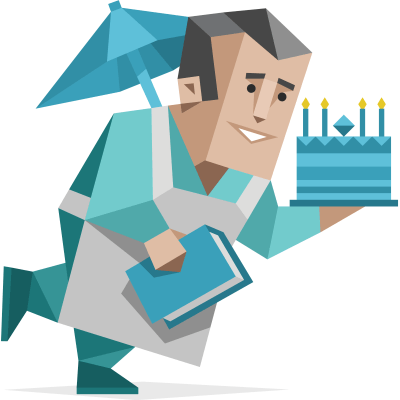
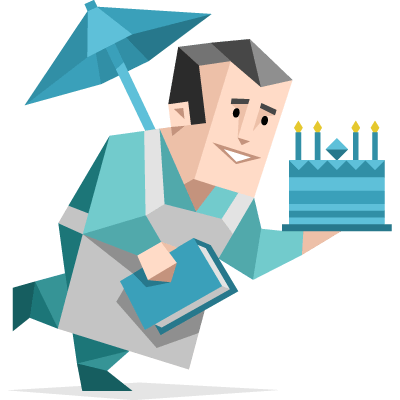
updates

diff --git a/lib/mbtichar.dart b/lib/mbtichar.dart
@@ -1,6 +1,7 @@
 // ignore_for_file: prefer_const_constructors
 
 import 'package:flutter/material.dart';
+import 'package:mbti/models/cardlist.dart';
 import 'dart:ui' as ui;
 
 import 'models/infopage.dart';
@@ -21,12 +22,36 @@ class mbtichar extends StatelessWidget {
 
   @override
   Widget build(BuildContext context) {
+    late Color typecolor;
+    var mbtitype = {
+      "Analysts": ["Architect", "Logician", "Commander", "Debater"],
+      "Diplomats": ["Advocate", "Mediator", "Protagonist", "Campaigner"],
+      "Sentinels": ["Logistician", "Defender", "Executive", "Consul"],
+      "Explorers": ["Virtuoso", "Adventurer", "Entrepreneur", "Entertainer"]
+    };
+
+    mbtitype.forEach((key, value) {
+      for (var item in value) {
+        if (mbtititle == item) {
+          if (key == "Analysts") {
+            typecolor = Color.fromARGB(255, 121, 84, 138);
+          } else if (key == "Diplomats") {
+            typecolor = Color.fromARGB(255, 32, 117, 50);
+          } else if (key == "Sentinels") {
+            typecolor = Color.fromARGB(255, 32, 123, 146);
+          } else {
+            typecolor = Color.fromARGB(255, 143, 134, 10);
+          }
+        }
+      }
+    });
+
     return Scaffold(
       backgroundColor: Colors.white,
       body: Stack(children: [
         Column(children: [
           Padding(
-            padding: EdgeInsets.only(left: 36, top: 50),
+            padding: EdgeInsets.only(left: 24, top: 140),
             child: Container(
               width: 280,
               height: 280,
@@ -34,83 +59,33 @@ class mbtichar extends StatelessWidget {
                   image: DecorationImage(image: AssetImage(imagetitlepath))),
             ),
           ),
-          // Padding(
-          //   padding: EdgeInsets.only(top: 36, left: 4),
-          //   child: Column(children: [
-          //     Text(
-          //       mbtititle,
-          //       style: TextStyle(
-          //           color: color(),
-          //           fontSize: 35,
-          //           letterSpacing: -2,
-          //           fontFamily: 'PTMono'),
-          //     ),
-          //     SizedBox(
-          //       height: 8,
-          //     ),
-          //     Padding(
-          //       padding: EdgeInsets.only(left: 20),
-          //       child: Text(
-          //         description,
-          //         style: TextStyle(
-          //             color: Colors.grey[700],
-          //             fontSize: 20,
-          //             fontFamily: 'PTMono'),
-          //       ),
-          //     )
-          //   ]),
-          // ),
-          // SizedBox(
-          //   height: 40,
-          // ),
-          // GestureDetector(
-          //   onTap: () {
-          //     Navigator.push(context, MaterialPageRoute(builder: (context) {
-          //       return infopage(imageinfo, mbtititle, mbtiinfo);
-          //     }));
-          //   },
-          //   child: Container(
-          //     width: 70,
-          //     height: 66,
-          //     decoration: BoxDecoration(
-          //         shape: BoxShape.circle,
-          //         color: Colors.white,
-          //         border: Border.all(color: Colors.grey.shade300)),
-          //     child: Center(
-          //       child: Icon(
-          //         Icons.arrow_downward,
-          //         color: Colors.grey.shade600,
-          //         size: 28,
-          //       ),
-          //     ),
-          //   ),
-          // ),
-
-          // Expanded(
-          //   child: Container(
-          //     child: CustomPaint(
-          //       size: Size(400, (400).toDouble()),
-          //       painter: RPSCustomPainter(),
-          //     ),
-          //   ),
-          // ),
+          Expanded(
+            child: Container(
+              child: CustomPaint(
+                size: Size(400, (400).toDouble()),
+                painter: RPSCustomPainter(typecolor),
+              ),
+            ),
+          ),
         ]),
         Padding(
-          padding: EdgeInsets.only(top: 450, left: 24),
-          child: Column(children: [
+          padding: EdgeInsets.only(top: 250, left: 40),
+          child: Column(mainAxisAlignment: MainAxisAlignment.center, children: [
             Text(
               mbtititle,
               style: TextStyle(
-                  color: color(),
+                  color: typecolor,
                   fontSize: 35,
                   letterSpacing: -2,
                   fontFamily: 'PTMono'),
             ),
+            //debater,enterprentur,vertouso
             SizedBox(
               height: 8,
             ),
+
             Padding(
-              padding: EdgeInsets.only(left: 20),
+              padding: EdgeInsets.only(left: 14),
               child: Text(
                 description,
                 style: TextStyle(
@@ -127,11 +102,11 @@ class mbtichar extends StatelessWidget {
         GestureDetector(
           onTap: () {
             Navigator.push(context, MaterialPageRoute(builder: (context) {
-              return infopage(imageinfo, mbtititle, mbtiinfo);
+              return infopage(imageinfo, mbtititle, mbtiinfo, typecolor);
             }));
           },
           child: Padding(
-            padding: EdgeInsets.only(top: 580, left: 146),
+            padding: EdgeInsets.only(top: 618, left: 148),
             child: Container(
               width: 70,
               height: 66,
@@ -154,54 +129,30 @@ class mbtichar extends StatelessWidget {
   }
 }
 
-// class CurvedPainterd extends CustomPainter {
-//   @override
-//   void paint(Canvas canvas, Size size) {
-//     var paint = Paint()
-//       ..color = Color.fromARGB(255, 234, 243, 236)
-//       ..strokeWidth = 15;
-
-//     var path = Path();
-
-//     path.moveTo(0, size.height * 0.75);
-//     path.quadraticBezierTo(size.width * 0.25, size.height * 0.1,
-//         size.width * 0.5, size.height * 0.3);
-//     path.quadraticBezierTo(size.width * 0.75, size.height * 0.4,
-//         size.width * 1.0, size.height * 0.3);
-//     path.lineTo(size.width, size.height);
-//     path.lineTo(0, size.height);
-
-//     canvas.drawPath(path, paint);
-//   }
-
-//   @override
-//   bool shouldRepaint(CustomPainter oldDelegate) {
-//     return true;
-//   }
-// }
 class RPSCustomPainter extends CustomPainter {
+  var typecolor;
+  RPSCustomPainter(this.typecolor);
   @override
   void paint(Canvas canvas, Size size) {
     Paint paint0 = Paint()
-      ..color = Color.fromARGB(255, 234, 243, 236)
+      ..color = typecolor
       ..style = PaintingStyle.fill
       ..strokeWidth = 1.0;
 
     Path path0 = Path();
-    path0.moveTo(0, size.height * 0.2120000);
+    path0.moveTo(0, size.height * 0.4278250);
     path0.cubicTo(
-        size.width * 0.3156250,
-        size.height * 0.6445000,
-        size.width * 0.3556250,
-        size.height * 0.6670000,
-        size.width * 0.4787500,
-        size.height * 0.6800000);
-    path0.quadraticBezierTo(size.width * 0.6056250, size.height * 0.6875000,
-        size.width, size.height * 0.4300000);
-    path0.lineTo(size.width, size.height);
+        size.width * 0.3470000,
+        size.height * 0.7994500,
+        size.width * 0.6753000,
+        size.height * 0.8261750,
+        size.width,
+        size.height * 0.4210000);
+    path0.quadraticBezierTo(size.width * 1.0195750, size.height * 0.5461750,
+        size.width, size.height);
     path0.lineTo(0, size.height);
-    path0.quadraticBezierTo(
-        0, size.height * 0.8030000, 0, size.height * 0.2120000);
+    path0.quadraticBezierTo(size.width * -0.0160000, size.height * 0.8009500, 0,
+        size.height * 0.4278250);
     path0.close();
 
     canvas.drawPath(path0, paint0);

diff --git a/lib/models/infopage.dart b/lib/models/infopage.dart
@@ -9,7 +9,8 @@ class infopage extends StatelessWidget {
   String imagepah;
   String title;
   String mbtiinfo;
-  infopage(this.imagepah, this.title, this.mbtiinfo);
+  var typecolor;
+  infopage(this.imagepah, this.title, this.mbtiinfo, this.typecolor);
 
   Color color() {
     return Color.fromARGB(255, 68, 117, 69);
@@ -23,10 +24,8 @@ class infopage extends StatelessWidget {
         Container(
           margin: EdgeInsets.all(10),
           width: 340,
-          height: 190,
+          height: 200,
           decoration: BoxDecoration(
-
-              // color: Colors.grey,
               borderRadius: BorderRadius.circular(20),
               image: DecorationImage(
                   image: ExactAssetImage(imagepah), fit: BoxFit.fill)),
@@ -101,7 +100,7 @@ class infopage extends StatelessWidget {
           child: Text(
             "$title Personality",
             style: TextStyle(
-                color: color(),
+                color: typecolor,
                 fontSize: 35,
                 letterSpacing: -2,
                 fontFamily: 'PTMono'),

diff --git a/lib/models/cardlist.dart b/lib/models/cardlist.dart
@@ -96,7 +96,7 @@ class description {
 }
 
 List<description> disciption_list = [
-  description('Thoughtful and idealistic'),
+  description('Extraverted, Intuitive\nnFeeling,and Judging'),
   description('Extraverted, Intuitive\nFeeling,and Prospecting'),
   description('Extraverted, Intuitive\nThinking,and Judging'),
   description('Extraverted, Intuitive\nThinking,and Prospecting'),
@@ -113,3 +113,12 @@ List<description> disciption_list = [
   description('Introverted, Observant\nThinking,and Judging'),
   description('Introverted, Observant\nThinking,and Prospecting'),
 ];
+
+// var Analysts = ["Architect", "Logician", "Commander", "Debater"];
+
+// var Diplomats = ["Advocate", "Mediator", "Protagonist", "Campaigner"];
+
+// var Sentinels = ["Logistician", "Defender", "Executive", "Consul"];
+
+// var Explorers = ["Virtuoso", "Adventurer", "Entrepreneur", "Entertainer"];
+
